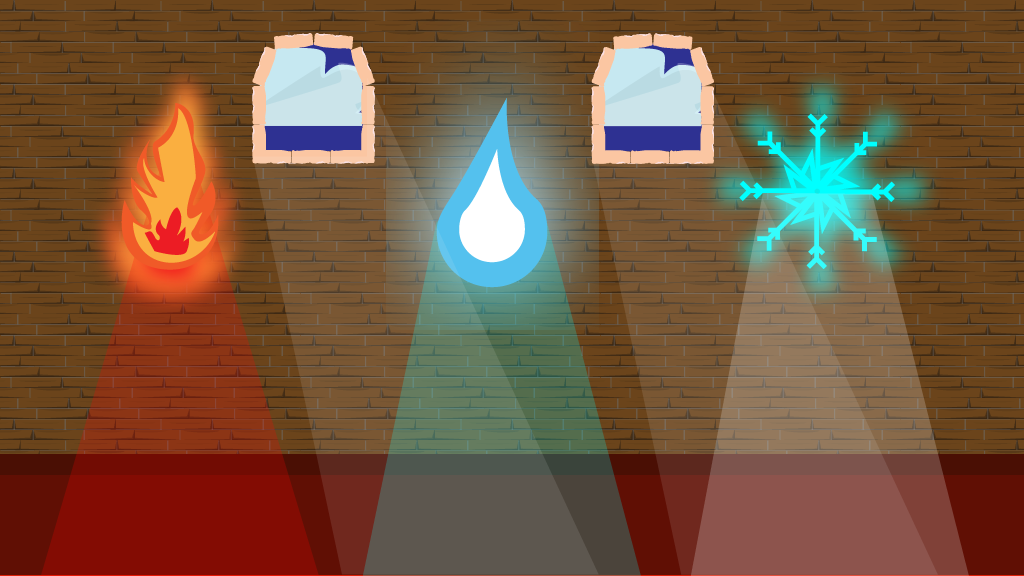
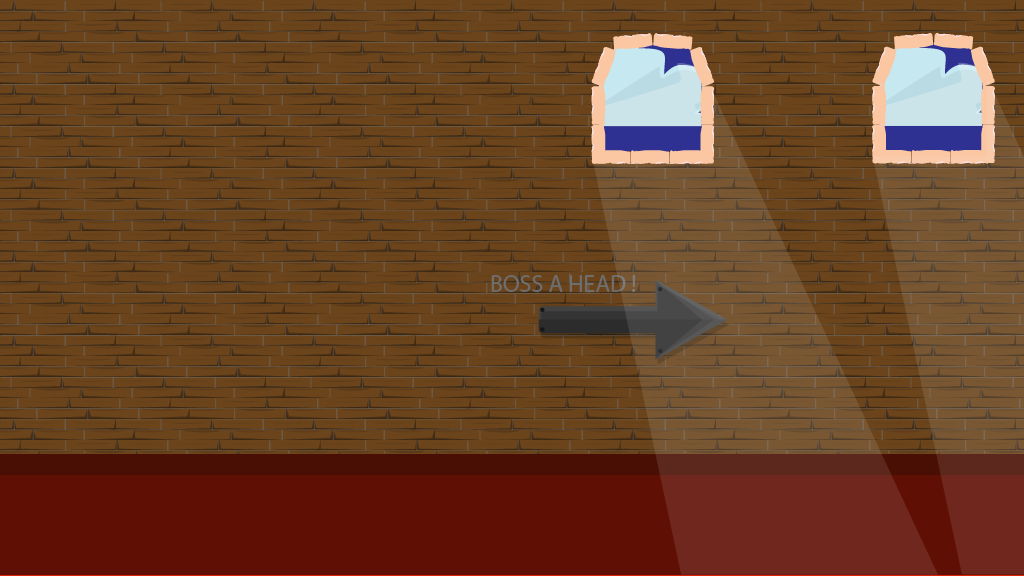
figures

diff --git a/js/classes/Sprite.js b/js/classes/Sprite.js
@@ -95,6 +95,14 @@ class Sprite {
       }
     }
   }
+  remove_animation() {
+    this.image = new Image();
+  }
+  removeAllElement(){
+    fire.remove_animation();
+    water.remove_animation();
+    ice.remove_animation();
+  }
   collisionStair() {
     // c.fillStyle = "rgba(0,225,0,0.2)";
     // c.fillRect(0,260,130,187)
@@ -165,9 +173,53 @@ class Sprite {
     }
   }
 
-  remove_animation() {
-    this.image = new Image();
+  iceMap3(){
+    ice.drawAnimate(true);
+    // c.fillStyle ="red";
+    // c.fillRect(60,50,30,30);
+    if (
+      ((player.position.x >= 60 || player.position.x + player.width >= 60) &&
+       (player.position.x <= 90 || player.position.x + player.width <= 90) && 
+       (player.position.y <= 50 || player.sides.bottom <= 50) && 
+       (player.position.y >= 80 || player.sides.bottom >= 80))
+    ) {
+      state.element = 'ice';
+      this.removeAllElement();
+      console.log(state.element);
+    }
   }
+  fireMap3(){
+    fire.drawAnimate(true);
+    // c.fillStyle ="red";
+    // c.fillRect(210,50,30,30);
+    if (
+      ((player.position.x >= 210 || player.position.x + player.width >= 210) &&
+       (player.position.x <= 240 || player.position.x + player.width <= 240) && 
+       (player.position.y <= 50 || player.sides.bottom <= 50) && 
+       (player.position.y >= 80 || player.sides.bottom >= 80))
+    ) {
+      state.element = 'fire';
+      this.removeAllElement();
+      console.log(state.element);
+    }
+  }
+  waterMap3(){
+    water.drawAnimate(true);
+    // c.fillStyle ="red";
+    // c.fillRect(360,50,30,30);
+    if (
+      ((player.position.x >= 360 || player.position.x + player.width >= 360) &&
+       (player.position.x <= 390 || player.position.x + player.width <= 390) && 
+       (player.position.y <= 50 || player.sides.bottom <= 50) && 
+       (player.position.y >= 80 || player.sides.bottom >= 80))
+    ) {
+      state.element = 'water';
+      this.removeAllElement();
+      console.log(state.element);
+    }
+  }
+
+  
 }
 const map1 = new Sprite({
   position: {
@@ -190,6 +242,13 @@ const map3 = new Sprite({
   },
   imageSrc: "./images/map/map3.png",
 });
+const map4 = new Sprite({
+  position: {
+    x: 0,
+    y: 0,
+  },
+  imageSrc: "./images/map/map4.png",
+})
 
 const hpMap2 = new Sprite({
   position: {
@@ -200,3 +259,31 @@ const hpMap2 = new Sprite({
   frameRate: 5,
   frameBuffer: 10,
 });
+
+const ice = new Sprite({
+  position :{
+    x: 0,
+    y: 0,
+  },
+  imageSrc: "./images/env/ice.png",
+  frameRate : 5,
+  frameBuffer: 10,
+})
+const fire = new Sprite({
+  position :{
+    x: 150,
+    y: 0,
+  },
+  imageSrc: "./images/env/fire.png",
+  frameRate : 5,
+  frameBuffer: 10,
+})
+const water = new Sprite({
+  position :{
+    x: 300,
+    y: 0,
+  },
+  imageSrc: "./images/env/water.png",
+  frameRate : 5,
+  frameBuffer : 10,
+})

diff --git a/js/classes/Warrior.js b/js/classes/Warrior.js
@@ -1,0 +1,102 @@
+class Warrior extends Sprite {
+  constructor(imageSrc, frameRate, frameBuffer) {
+    super(imageSrc, frameRate, frameBuffer);
+    this.position = {
+      x: 0,
+      y: 150,
+    };
+    this.width = 300;
+    this.height = 300;
+  }
+  draw() {
+    // console.log('hai')
+    if (!this.loaded) return;
+    c.drawImage(this.image, this.position.x, this.position.y);
+  }
+  drawQuestion() {
+    c.fillStyle = "white";
+    c.fillRect(0, canvas.height - 200, canvas.width, 200);
+  }
+  health() {
+    c.fillStyle = "white";
+    c.fillRect(10, 10, 400, 40);
+  }
+
+  questions() {
+    state.answering = true;
+    // const figure = Math.floor(Math.random() * 7);
+    const figure = 1
+    let answer = 0;
+    switch (figure) {
+      case 1:
+        const a = Math.floor(Math.random(1,40))
+        const b = Math.floor(Math.random(1,40))
+        const c = Math.floor(Math.random(1,40))
+
+        const alas = Math.floor(Math.random(1,30))
+        const tinggi = Math.floor(Math.random(1,30))
+
+        answer = this.triangle(alas, tinggi, a, b ,c);
+        break;
+      case 2:
+        answer = this.rectangle(panjang, lebar);
+        break;
+      case 3:
+        answer = this.circle(jari);
+        break;
+      case 4:
+        answer = this.trapezoid(a,b, c,tinggi);
+        break;
+      case 5:
+        answer = this.kite(d1,d2, a, b);
+        break;
+      case 6:
+        answer = this.rhombus(d1,d2, a, b);
+        break;
+      case 7:
+        answer = this.parallelogram(alas, tinggi,a, b);
+        break;
+      default:
+        answer = this.square(sisi);
+        break;
+    }
+
+  }
+  triangle (alas, tinggi, a, b , c, luas) {
+    const triangle = new Sprite({
+      imageSrc: "./images/figures/triangle.png",
+      position:{
+        x: 20,
+        y: canvas.height - 100
+      }
+    });
+    triangle.draw();
+    if(luas){
+      
+    }else{
+
+    }
+    console.log('triangle');
+  }
+  rectangle () {
+    console.log('rectangle');
+  }
+  circle () {
+    console.log('circle');
+  }
+  trapezoid(){
+    console.log('trapezoid')
+  }
+  kite(){
+    console.log('kite')
+  }
+  rhombus(){
+    console.log('rhoumbus')
+  }
+  parallelogram(){
+    console.log('parallelogram')
+  }
+  square(){
+    console.log('square')
+  }
+}

diff --git a/index.js b/index.js
@@ -8,10 +8,12 @@ canvas.height = 64 * 9; //576
 const ground = 110;
 
 const state = {
-  map: 1, 
+  map: 4,
   hp: 100,
   element: "fire",
   climbStair: false,
+
+  answering: false,
 };
 
 const player = new Player({
@@ -60,28 +62,61 @@ const keys = {
   },
 };
 
+const warior = new Warrior(
+  {
+    imageSrc: "./images/character/warrior.png",
+    frameRate: 1,
+    framBuffer:0
+  }
+);
+const boss = new Boss(
+  {
+    imageSrc: "./images/character/boss.png",
+    frameRate: 1,
+    frameBuffer:0,
+  }
+)
+
 function animate() {
   window.requestAnimationFrame(animate);
-  console.log(state.hp )
-  switch (state.map) {
-    case 1:
-      map1.draw();
-      player.enterMap2();
-      break;
-    case 2:
-      map2.draw();
-      map2.collisionStair();
-      map2.healthMap2();
-      player.enterMap3();
-      break;
-    case 3:
-      map3.draw();
-      break;
-  }
 
-  player.movement();
-  player.drawAnimate(true);
-  player.update();
+  if (!state.map === 4) {
+    switch (state.map) {
+      case 1:
+        map1.draw();
+        player.enterMap2();
+        break;
+      case 2:
+        map2.draw();
+        map2.collisionStair();
+        map2.healthMap2();
+        player.enterMap3();
+        break;
+      case 3:
+        map3.draw();
+        state.climbStair = false;
+        map3.iceMap3();
+        map3.fireMap3();
+        map3.waterMap3();
+        break;
+    }
+    player.movement();
+    player.drawAnimate(true);
+    player.update();
+  }else{
+    map4.draw();
+    warior.draw();
+    warior.health();
+    warior.drawQuestion();
+    boss.hitBox();
+    boss.health();
+    boss.timer();
+    boss.draw();
+
+    if(!state.answering){
+      warior.questions();
+    }
+  }
 }
 
 animate();

diff --git a/js/classes/Boss.js b/js/classes/Boss.js
@@ -1,0 +1,53 @@
+class Boss extends Sprite{
+    constructor({position,imageSrc,frameRate,frameBuffer}){
+        super({position,imageSrc,frameRate,frameBuffer});
+        this.width = 316;
+        this.height = 201;
+
+        this.position ={
+            x: canvas.width - this.width,
+            y: 60
+        }
+        this.time = {
+            width: 100,
+            height: 40,
+            value: 120
+        }
+        this.hp = 100
+
+        this.attack = 10
+        this.attribute = Math.floor(Math.random() * 3);
+
+        
+    }
+
+    hitBox(){
+        // c.fillStyle = 'red';
+        // c.fillRect(canvas.width - this.width, 10, this.width, this.height);
+
+        
+    }
+    health(){
+        c.fillStyle = 'white';
+        c.fillRect(canvas.width - 410, 10, 400,40)
+
+        c.fillStyle = 'red';
+        c.fillRect(canvas.width - 410 + (400 - this.hp * 4 ), 10, this.hp * 4,40)
+
+    }
+    timer(){
+        c.fillStyle = 'red';
+        c.fillRect(canvas.width/2 - this.time.width / 2, 10, this.time.width, 40);
+
+        c.fillStyle = 'white'
+        c.font = "20px Arial";
+        // c.fillText(this.time.value.toString(),canvas.width/2 - this.time.width/2,this.time.height)
+        c.fillText(this.time.value.toString() + " detik",canvas.width/2 - this.time.width/2 + 10,this.time.height)
+        // c.fillText("Hello World", 10, 50);
+
+    }
+    draw(){
+        if(!this.loaded) return;
+        c.drawImage(this.image,this.position.x,this.position.y);
+    }
+}

diff --git a/js/eventListener.js b/js/eventListener.js
@@ -73,6 +73,8 @@ enter.addEventListener("touchstart", (e) => {
 
 window.addEventListener("keydown", (event) => {
   // console.log(event.key);
+  event.preventDefault();
+
   switch (event.key) {
     case "ArrowUp":
       keys.up.pressed = true;
@@ -115,6 +117,7 @@ window.addEventListener("keydown", (event) => {
   }
 });
 window.addEventListener("keyup", (event) => {
+  event.preventDefault();
   switch (event.key) {
     case "ArrowLeft":
       keys.left.pressed = false;
@@ -133,4 +136,3 @@ window.addEventListener("keyup", (event) => {
       break;
   }
 });
-class Listener {}

diff --git a/Index.html b/Index.html
@@ -45,6 +45,8 @@
     <script src="./js/buttons/buttons.js"></script>
     <script src="./js/classes/Sprite.js"></script>
     <script src="./js/classes/Player.js"></script>
+    <script src="./js/classes/Warrior.js"></script>
+    <script src="./js/classes/Boss.js"></script>
     <script src="./js/eventListener.js"></script>
     <script src="index.js"></script>
   </body>
